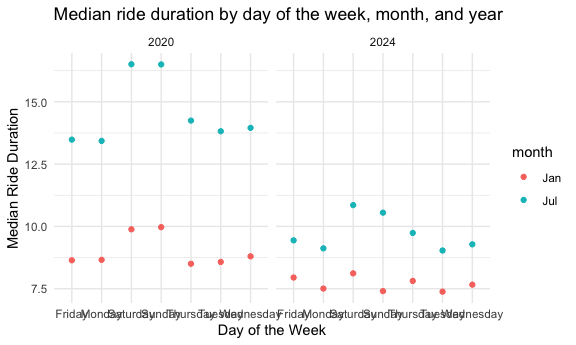
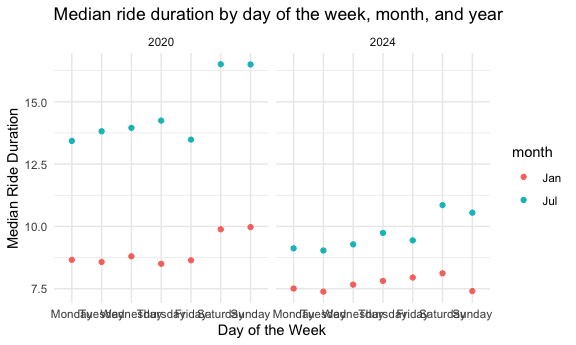
rearranging weekdays in plot in problem 3

diff --git a/p8105_hw3_cc5423.md b/p8105_hw3_cc5423.md
@@ -500,6 +500,8 @@ ggplot(data = jan_df, aes(x = weekdays, y = med_dur, color = month)) +
     x = "Day of the Week",
     y = "Median Ride Duration"
   ) +
+  scale_x_discrete(limits = c("Monday", "Tuesday", "Wednesday", "Thursday", "Friday",
+                              "Saturday", "Sunday")) +
   theme_minimal() +
   scale_color_discrete()
 ```
